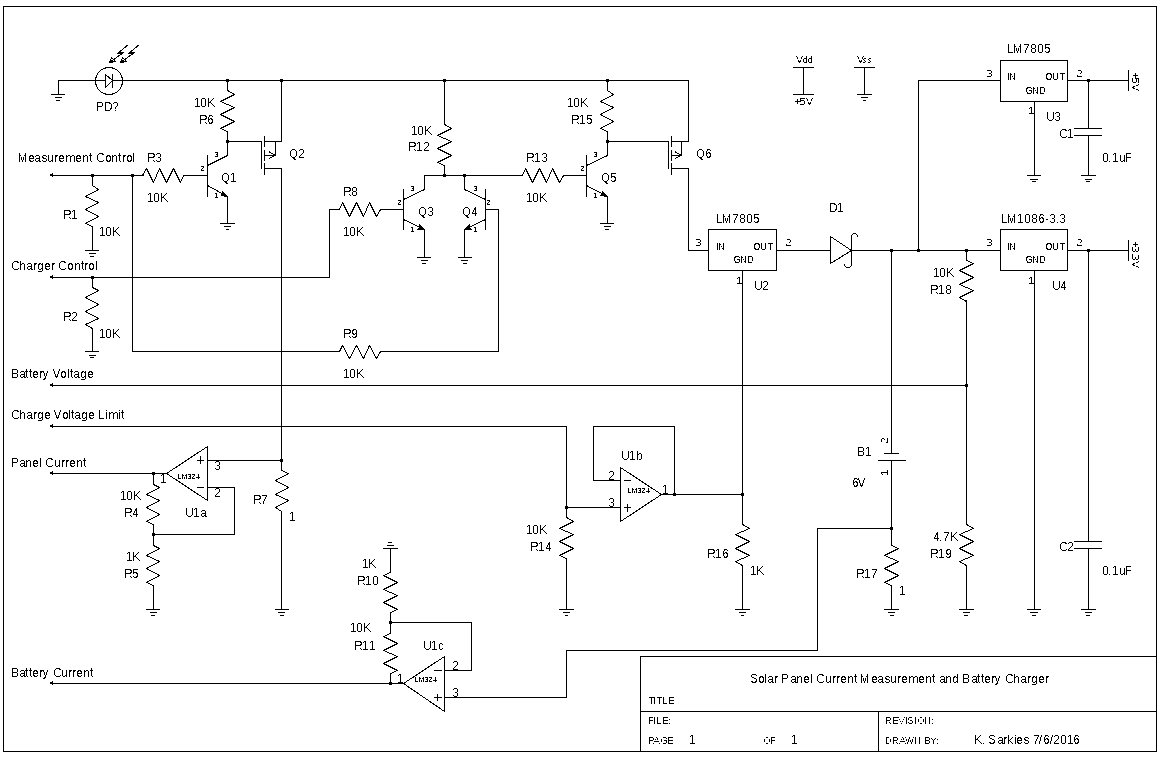
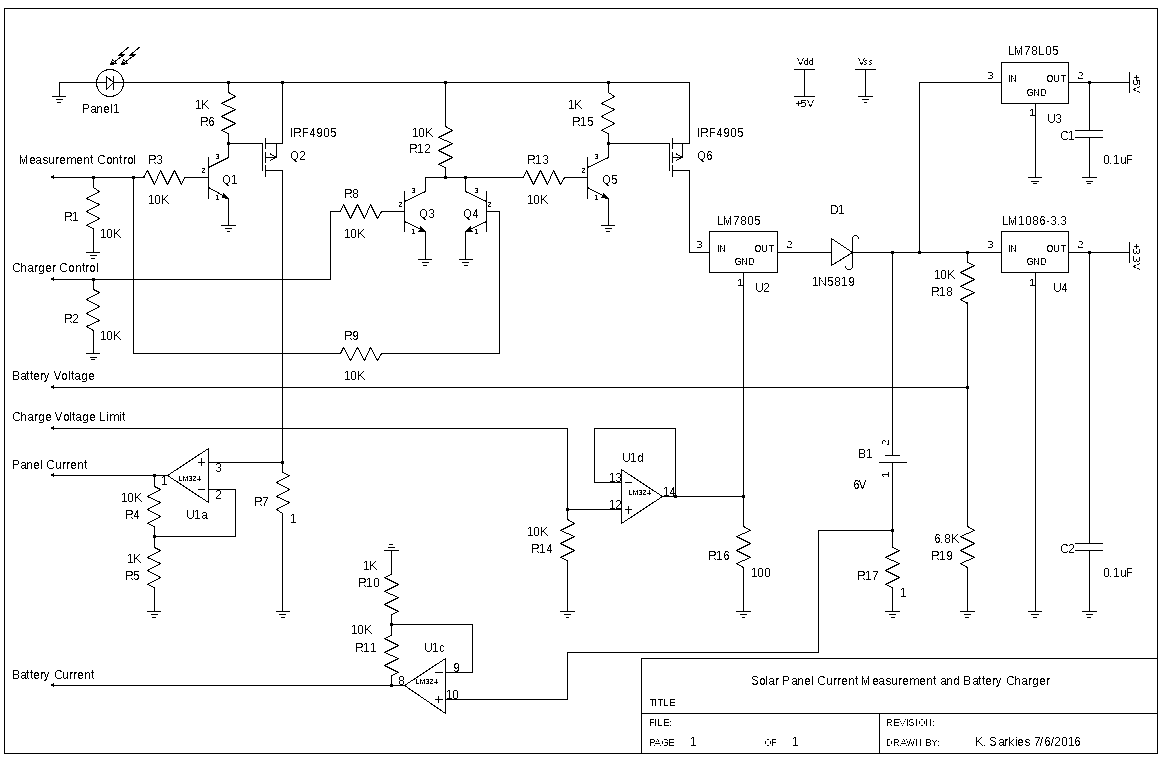
Some component changes following testing.

diff --git a/gEDA-Weather-Station/README.md b/gEDA-Weather-Station/README.md
@@ -23,5 +23,20 @@ amplifier. The LM324 has a 3.5V output limit with this supply voltage. The
 LM324 also draws only about 0.7mA from the battery. The processor can be placed
 into sleep mode between measurements to reduce power drain.
 
-(c) K. Sarkies 07/06/2016
+Design Notes
+------------
+
+The LM324 has been given a supply voltage VDD of 5V. The outputs can reach
+VDD-1.5V which limits them to 3.5V; within the range of the processor input
+voltage limits.
+
+The variable voltage regulator based on the 7805 has a 100 ohm voltage setting
+resistor. The 7805 has a quiescent current of 60mA which flows through this
+resistor and sets a minimum voltage of 0.6V. Th LM324 can source as much as 60mA
+which gives a maximum voltage of 3.6V. This provides an output voltage range
+between 5.6V and 8.6V. The actual maximum can be somewhat lower but as long as
+it is more than 7.5V it will provide a valuable natural limit on the battery
+charging voltage.
+
+(c) K. Sarkies 10/06/2016
 
